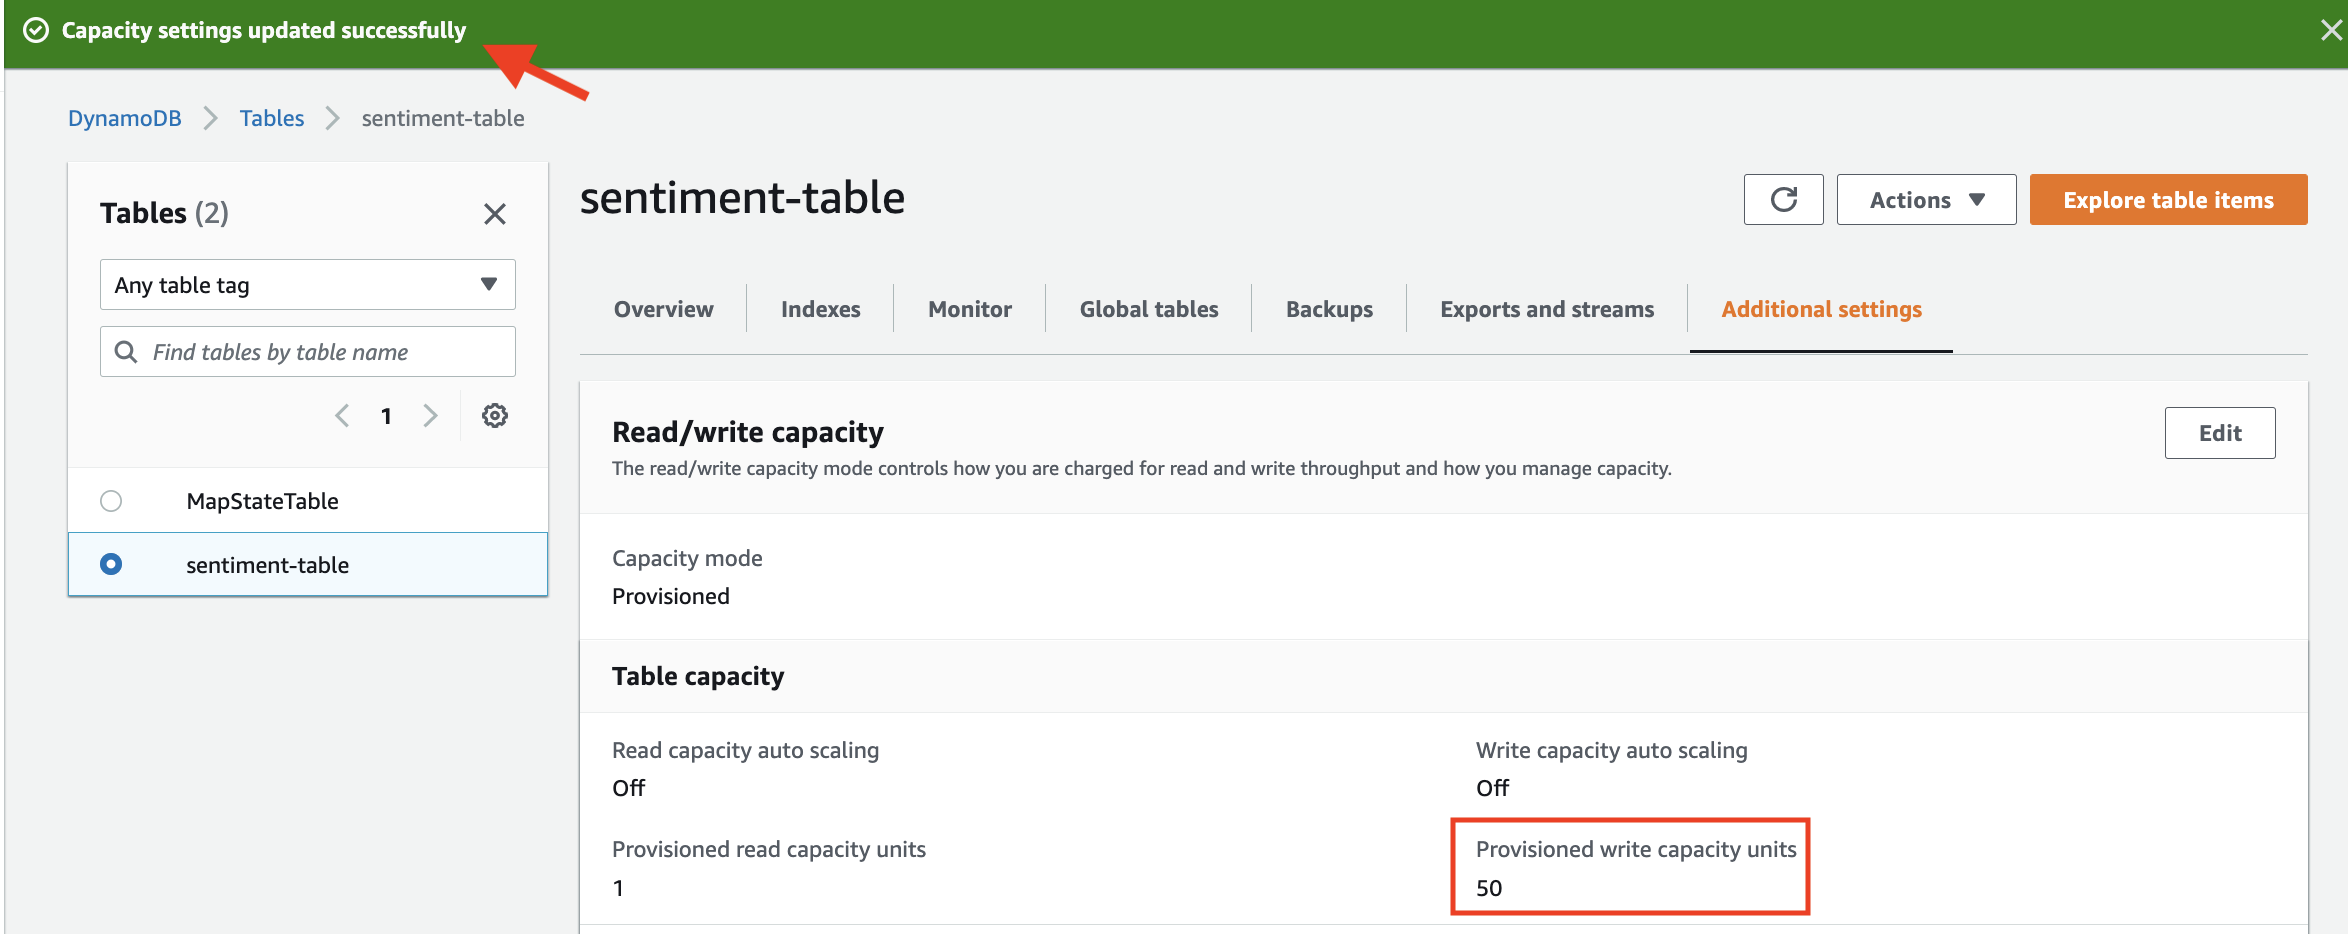
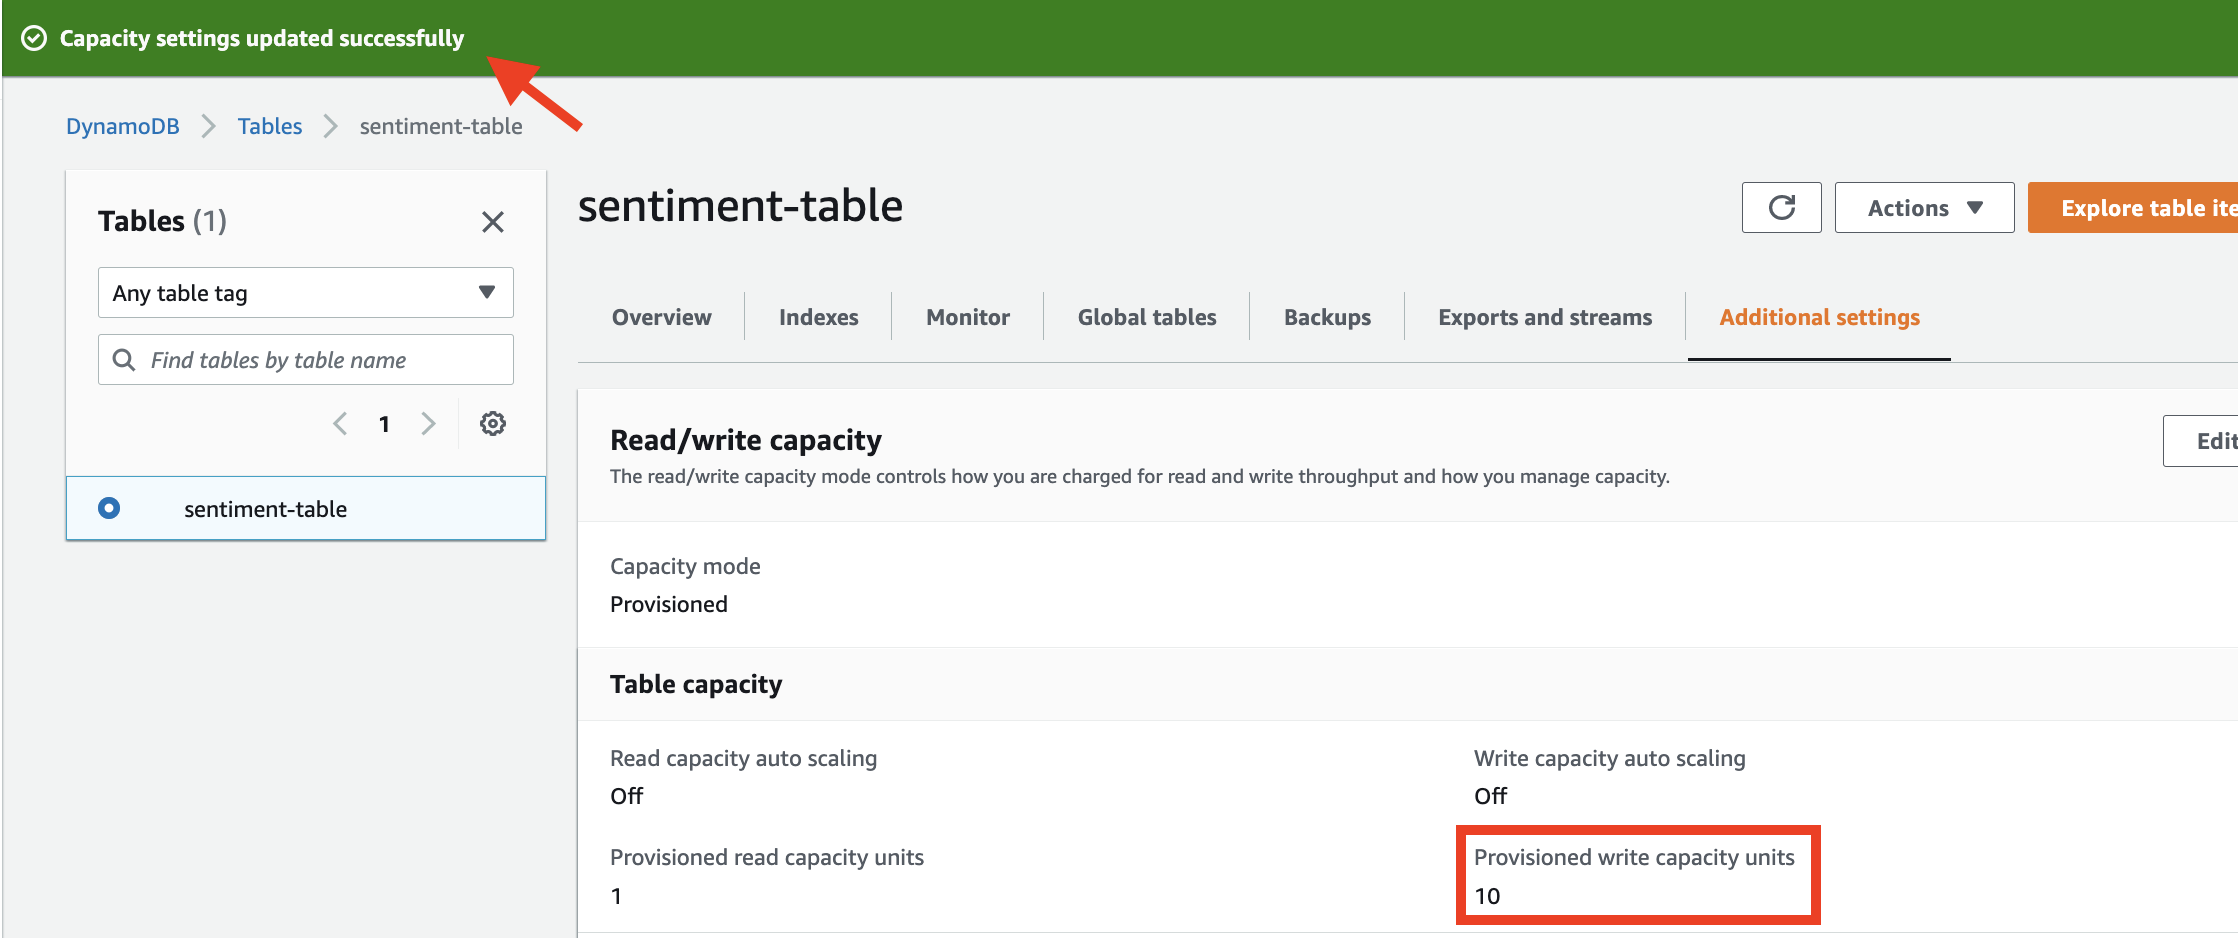
updated wcu to 10

diff --git a/content/module-12/step-6/index.en.md b/content/module-12/step-6/index.en.md
@@ -13,9 +13,9 @@ weight: 146
 
 4. In Additional settings tab, click **Edit**.
 
-5. In the Edit read/write capacity page, update the Provisioned capacity units under **Write capacity** to **50**
+5. In the Edit read/write capacity page, update the Provisioned capacity units under **Write capacity** to **10**
 
-   ![Update DDB](/static/img/module-12/ddb-wcu.png)
+![Update DDB](/static/img/module-12/ddb-wcu.png)
 
 :::alert{header="Important" type="warning"}
 Changing Provisioned capacity units on Amazon DynamoDB table can incur additional costs. Please review the [Amazon DynamoDB pricing](https://aws.amazon.com/dynamodb/pricing/) for provisioned capacity. We will provide instructions to delete these resources at the end of this module.
